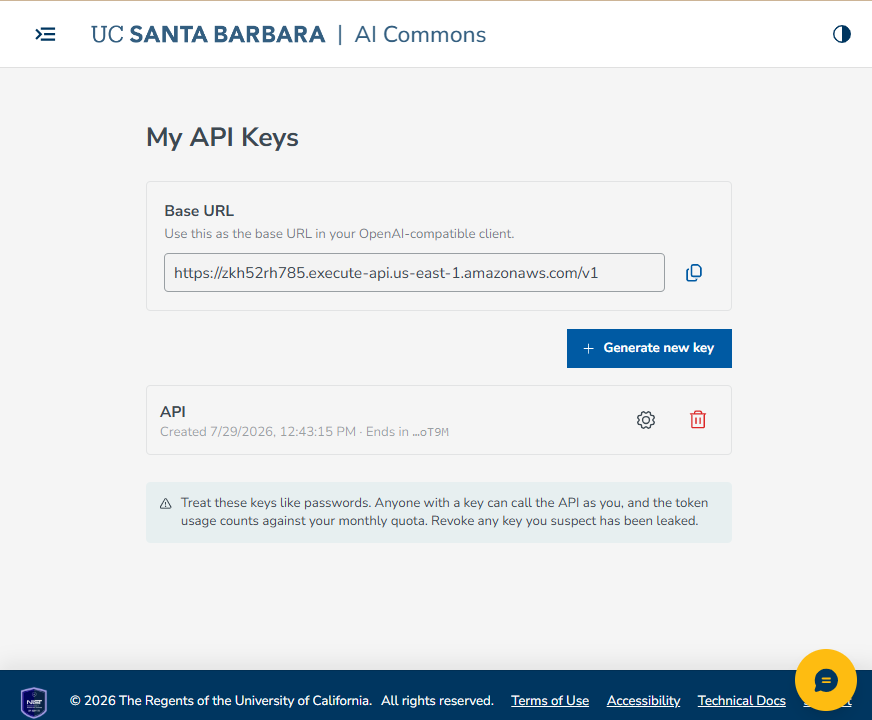
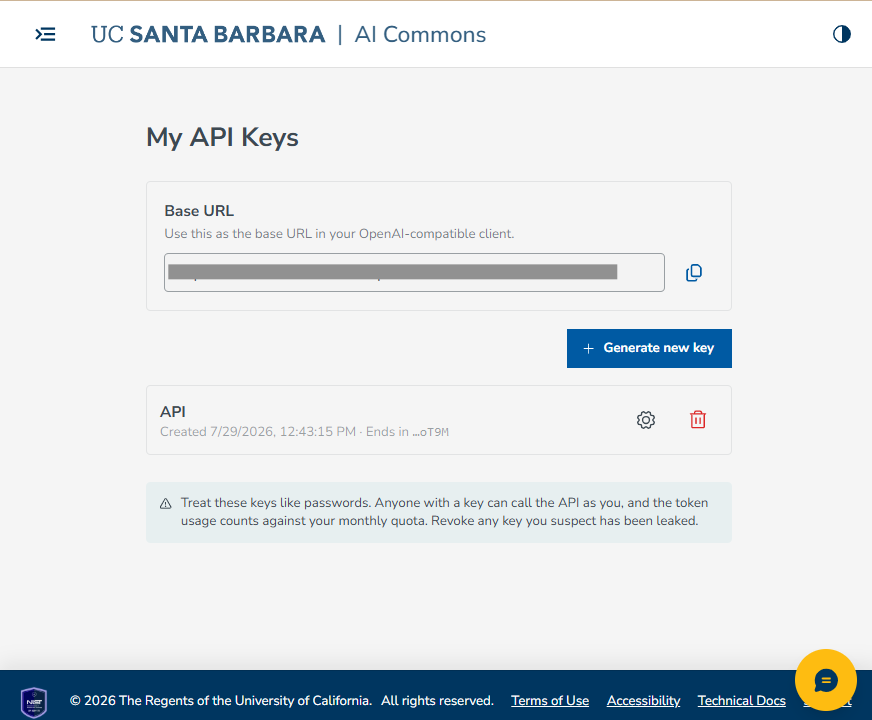
Update UCSB AI Commons guide and add images

Changed region(s): [[0.1858, 0.3667, 0.7122, 0.3972]]

diff --git a/guides/ucsb_ai_commons.md b/guides/ucsb_ai_commons.md
@@ -146,12 +146,14 @@ The user configuration file is located at:
 ~\.continue\config.yaml
 ```
 
-Alternatively, you can open it directly from within the IDE:
+You can open it directly from within the IDE:
 
 1. Click the **Continue** extension icon in the sidebar to open the Continue panel.
 2. Click the **settings icon** (top right corner of the Continue panel).
 3. Select **Configs** on the left side of the settings panel.
 4. Click **Main Config** to open the configuration file.
+
+![Continue IDE settings panel showing config location](../images/continue.png)
 
 Paste the following into your config:
 
